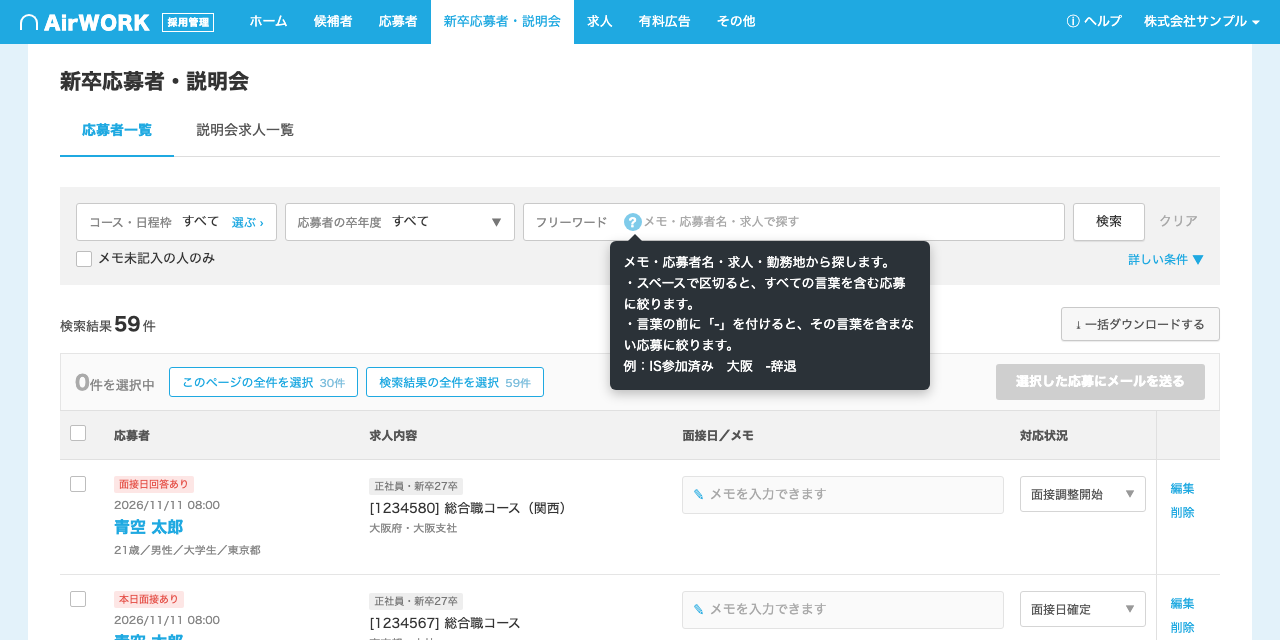
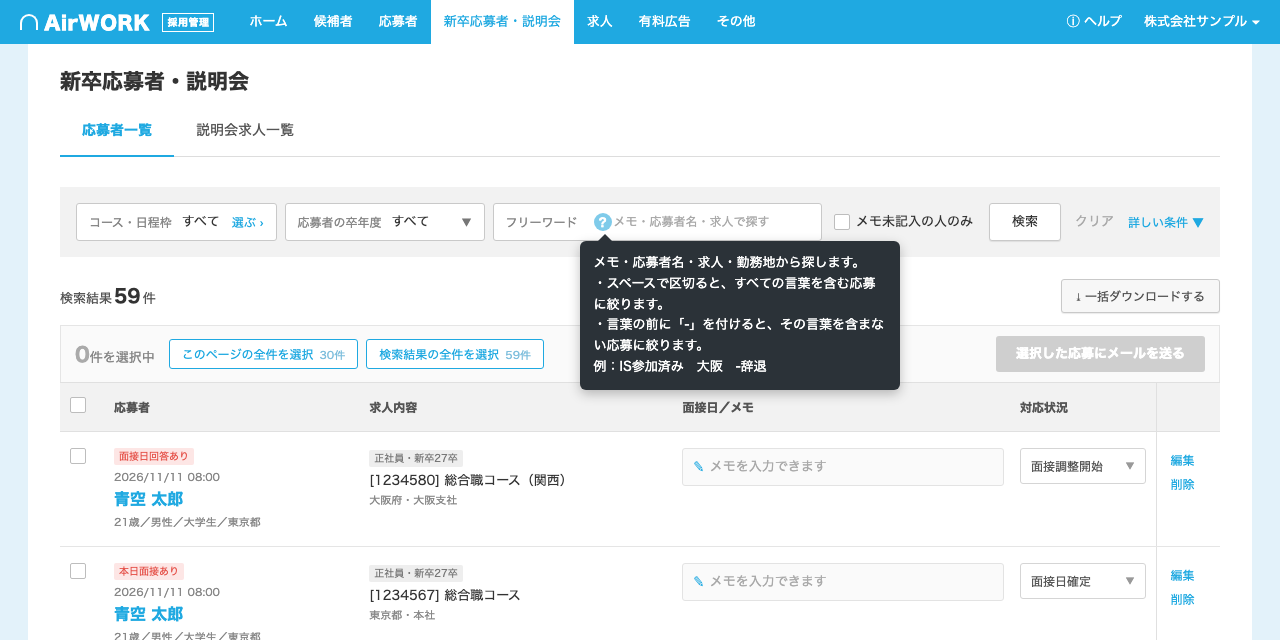
検索欄を1行にまとめる（フリーワード欄の幅を決め、メモ未記入のチェックと詳しい条件を同じ行に並べる）

diff --git a/index.html b/index.html
@@ -25,15 +25,13 @@
       <div class="row">
         <div class="pick" id="courseBtn"><span class="lb">コース・日程枠</span><span id="courseVal">すべて</span><span class="go">選ぶ ›</span></div>
         <div class="ddwrap">
-          <div class="sel" id="yearBtn" style="width:230px"><span class="lb">応募者の卒年度</span><span id="yearVal">すべて</span><span class="cv">▼</span></div>
+          <div class="sel" id="yearBtn" style="width:200px"><span class="lb">応募者の卒年度</span><span id="yearVal">すべて</span><span class="cv">▼</span></div>
           <div class="dd" id="yearDD"></div>
         </div>
         <label class="fw"><span class="k">フリーワード</span><span class="qtip down click" id="kwTip">?<span class="qbox">メモ・応募者名・求人・勤務地から探します。<br>・スペースで区切ると、すべての言葉を含む応募に絞ります。<br>・言葉の前に「-」を付けると、その言葉を含まない応募に絞ります。<br>例：IS参加済み　大阪　-辞退</span></span><input id="kwIn" placeholder="メモ・応募者名・求人で探す"></label>
+        <label class="cb" id="memoEmptyLbl"><span class="box" id="memoEmptyBox"></span>メモ未記入の人のみ</label>
         <div class="btn" id="searchBtn">検索</div>
         <span class="clear" id="clearBtn">クリア</span>
-      </div>
-      <div class="hint">
-        <label class="cb" id="memoEmptyLbl"><span class="box" id="memoEmptyBox"></span>メモ未記入の人のみ</label>
         <span class="more" id="moreBtn">詳しい条件 ▼</span>
       </div>
       <div class="detail" id="detail">

diff --git a/style.css b/style.css
@@ -42,7 +42,7 @@ h1 { font-size: 21px; margin: 6px 0 22px; }
 .lb { color: #888; font-size: 12px; margin-right: 10px; }
 .on-v { color: #1FA9E1; font-weight: 700; }
 .pick .go { margin-left: 12px; color: #1FA9E1; font-size: 12px; }
-.fw { flex: 1; min-width: 0; height: 38px; border: 1px solid #C9C9C9; border-radius: 3px; background: #fff; display: flex; align-items: center; padding: 0 12px; }
+.fw { flex: 1; min-width: 0; max-width: 340px; height: 38px; border: 1px solid #C9C9C9; border-radius: 3px; background: #fff; display: flex; align-items: center; padding: 0 12px; }
 .fw .k { color: #888; font-size: 12px; margin-right: 10px; flex: none; }
 .fw input { border: 0; outline: 0; flex: 1; min-width: 0; font-size: 13px; background: transparent; }
 .fw input::placeholder { color: #AAA; font-size: 12px; }
@@ -55,6 +55,9 @@ h1 { font-size: 21px; margin: 6px 0 22px; }
 .box.on { background: #1FA9E1; border-color: #1FA9E1; }
 .box.on::after { content: "✓"; }
 .more { margin-left: auto; color: #1FA9E1; white-space: nowrap; cursor: pointer; }
+.row .cb { margin: 0 8px 0 4px; }
+.row .more { font-size: 12px; }
+.clear { white-space: nowrap; }
 .detail { display: none; margin-top: 14px; padding-top: 14px; border-top: 1px solid #E0E0E0; gap: 8px; flex-wrap: wrap; }
 .detail.open { display: flex; }
 .chip { height: 34px; border: 1px solid #C9C9C9; border-radius: 3px; background: #fff; display: inline-flex; align-items: center; padding: 0 12px; gap: 8px; white-space: nowrap; cursor: pointer; }

diff --git a/app.js b/app.js
@@ -186,7 +186,7 @@
     $('courseVal').innerHTML = cs ? `<span class="on-v">${esc(cs)}</span>` : 'すべて';
     $('memoEmptyBox').classList.toggle('on', F.memoEmpty);
     const detailCount = [F.date, F.statuses.length, F.notice].filter(Boolean).length;
-    $('moreBtn').textContent = detailOpen ? '詳しい条件を閉じる ▲' : `詳しい条件${detailCount ? `（${detailCount}件指定中）` : ''} ▼`;
+    $('moreBtn').textContent = detailOpen ? '詳しい条件 ▲' : `詳しい条件${detailCount ? `（${detailCount}件指定中）` : ''} ▼`;
     $('detail').classList.toggle('open', detailOpen);
     const chip = (btn, val, on, text) => { $(btn).classList.toggle('on', on); $(val).textContent = text; };
     chip('dateBtn', 'dateVal', !!F.date, F.date ? dateText(F.date) : '指定なし');
